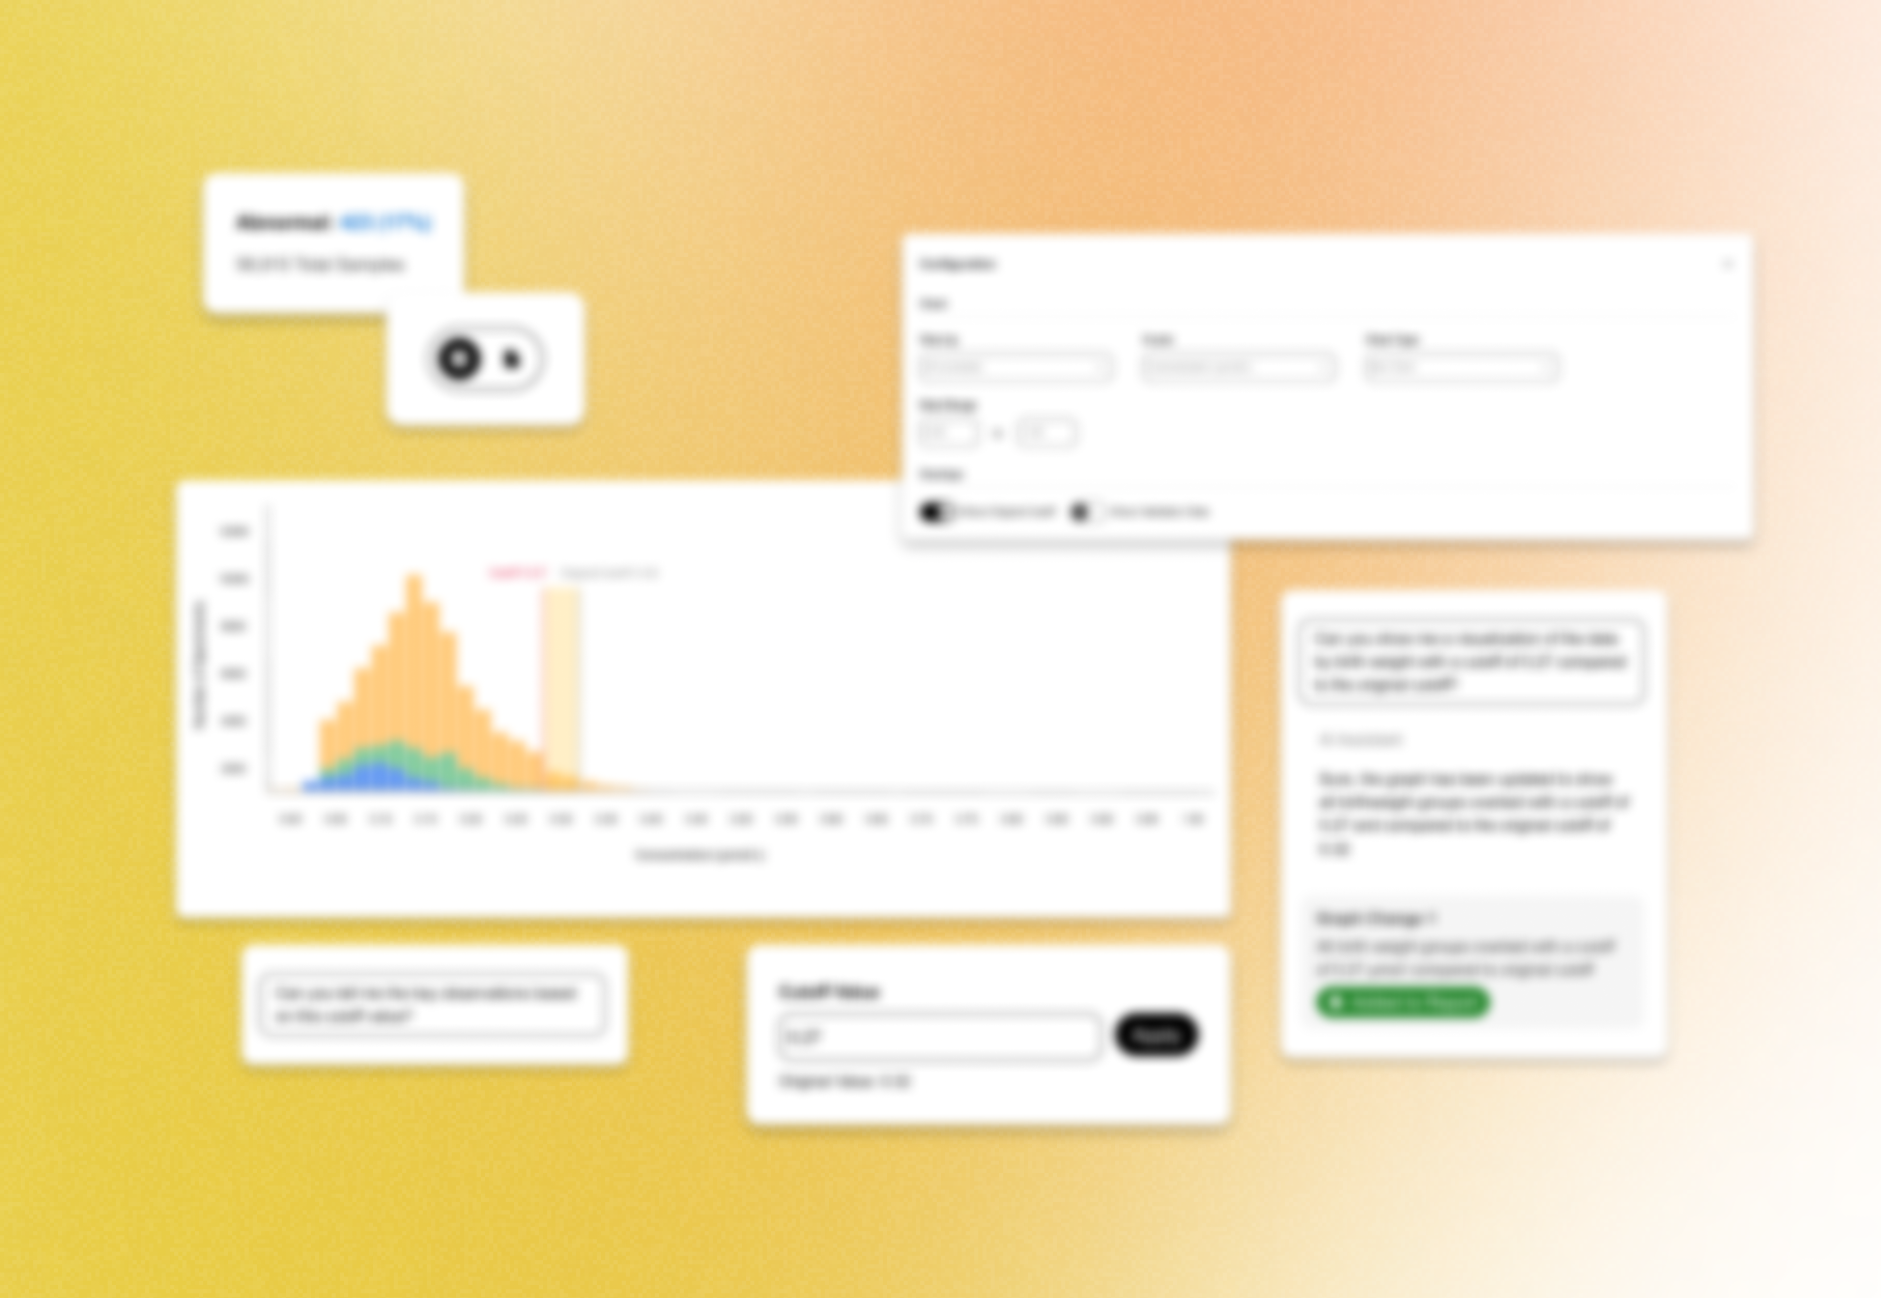
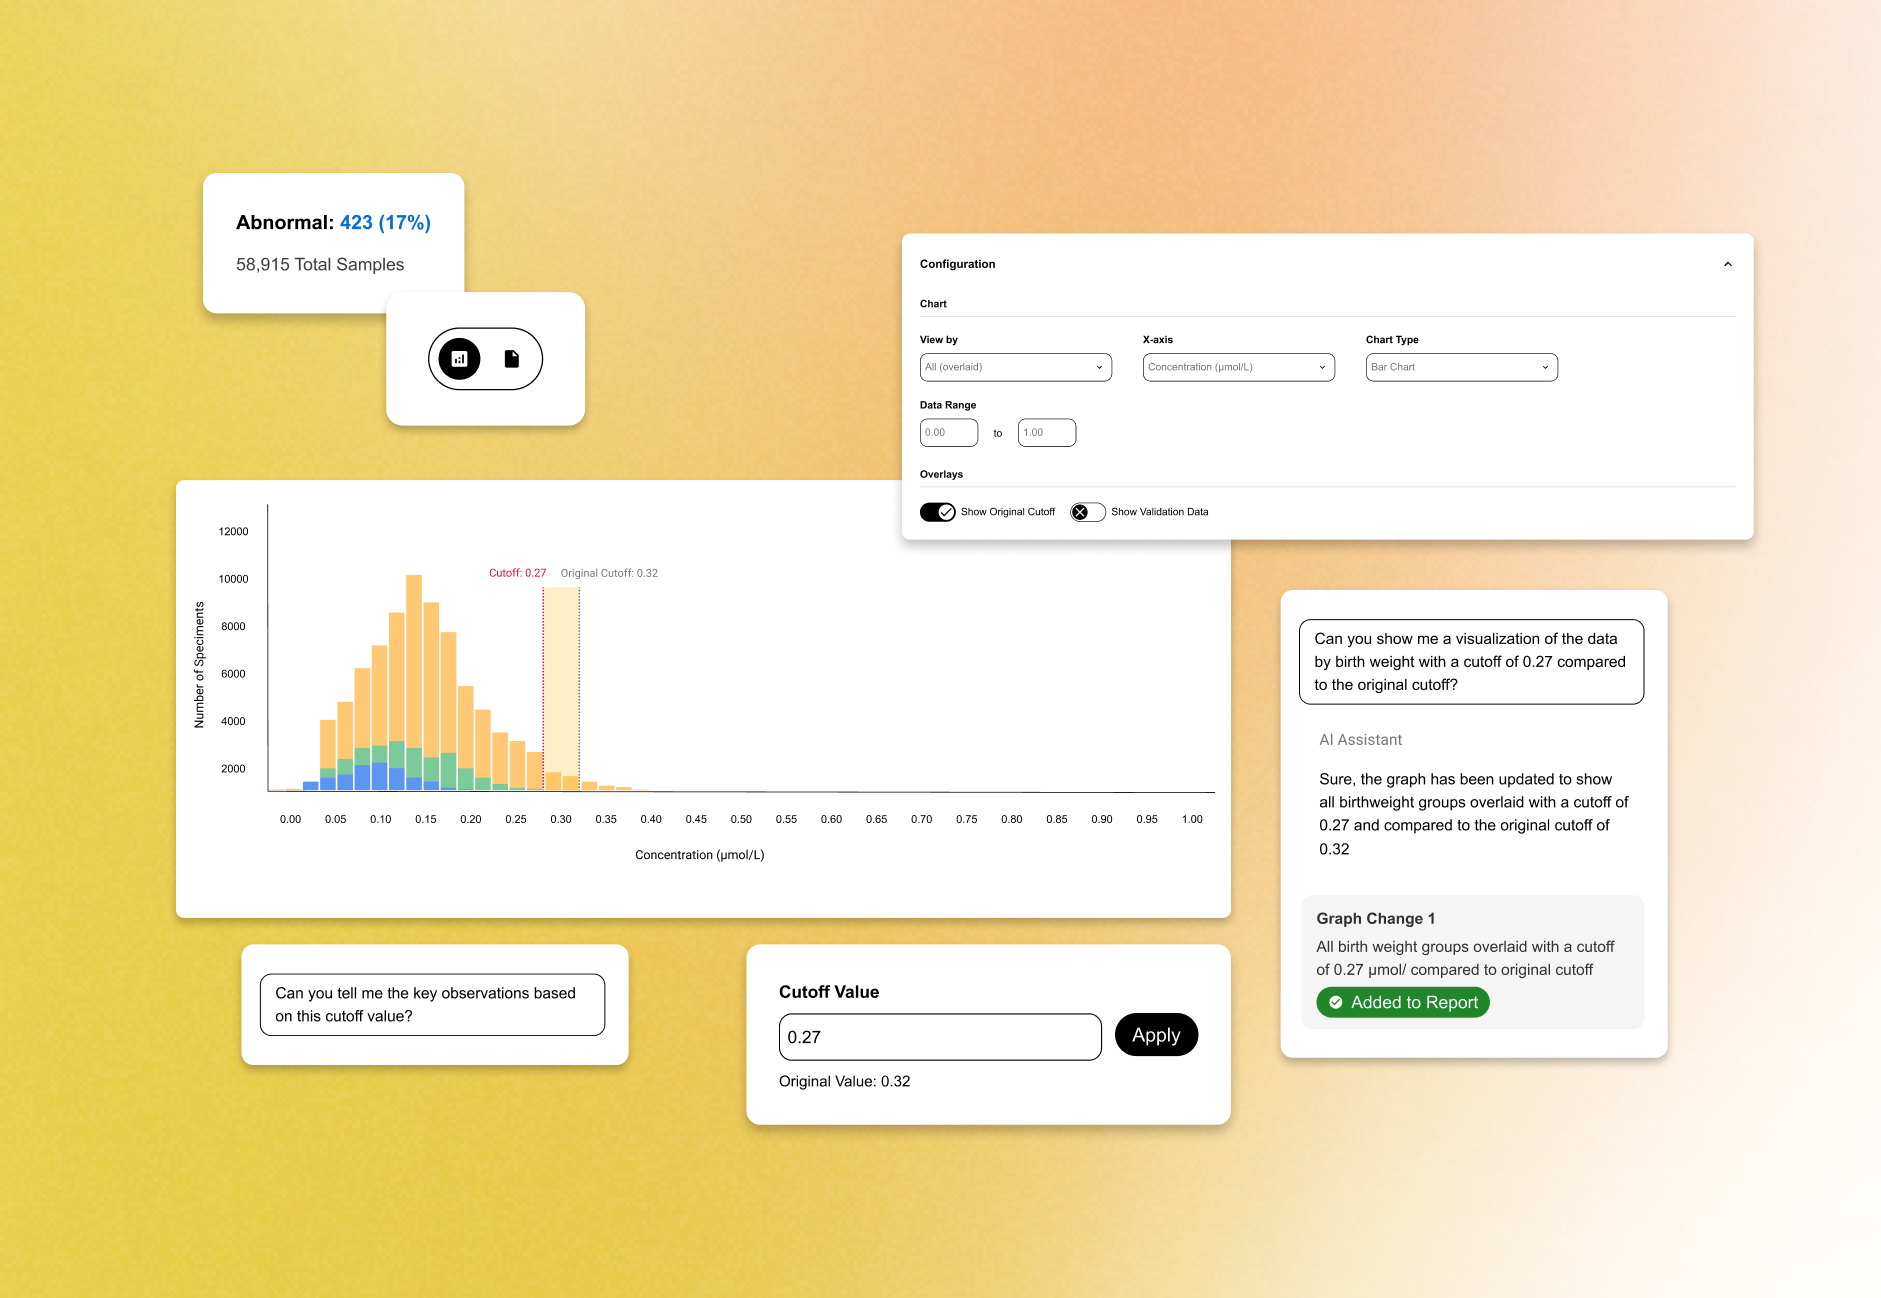
update

diff --git a/src/components/NewbornScreening.js b/src/components/NewbornScreening.js
@@ -189,7 +189,11 @@ function NewbornScreening() {
             excited for what’s next!
           </p>
         </section>
+
+        
       </main>
+
+      
 
       <Footer className="footerHome" />
     </div>